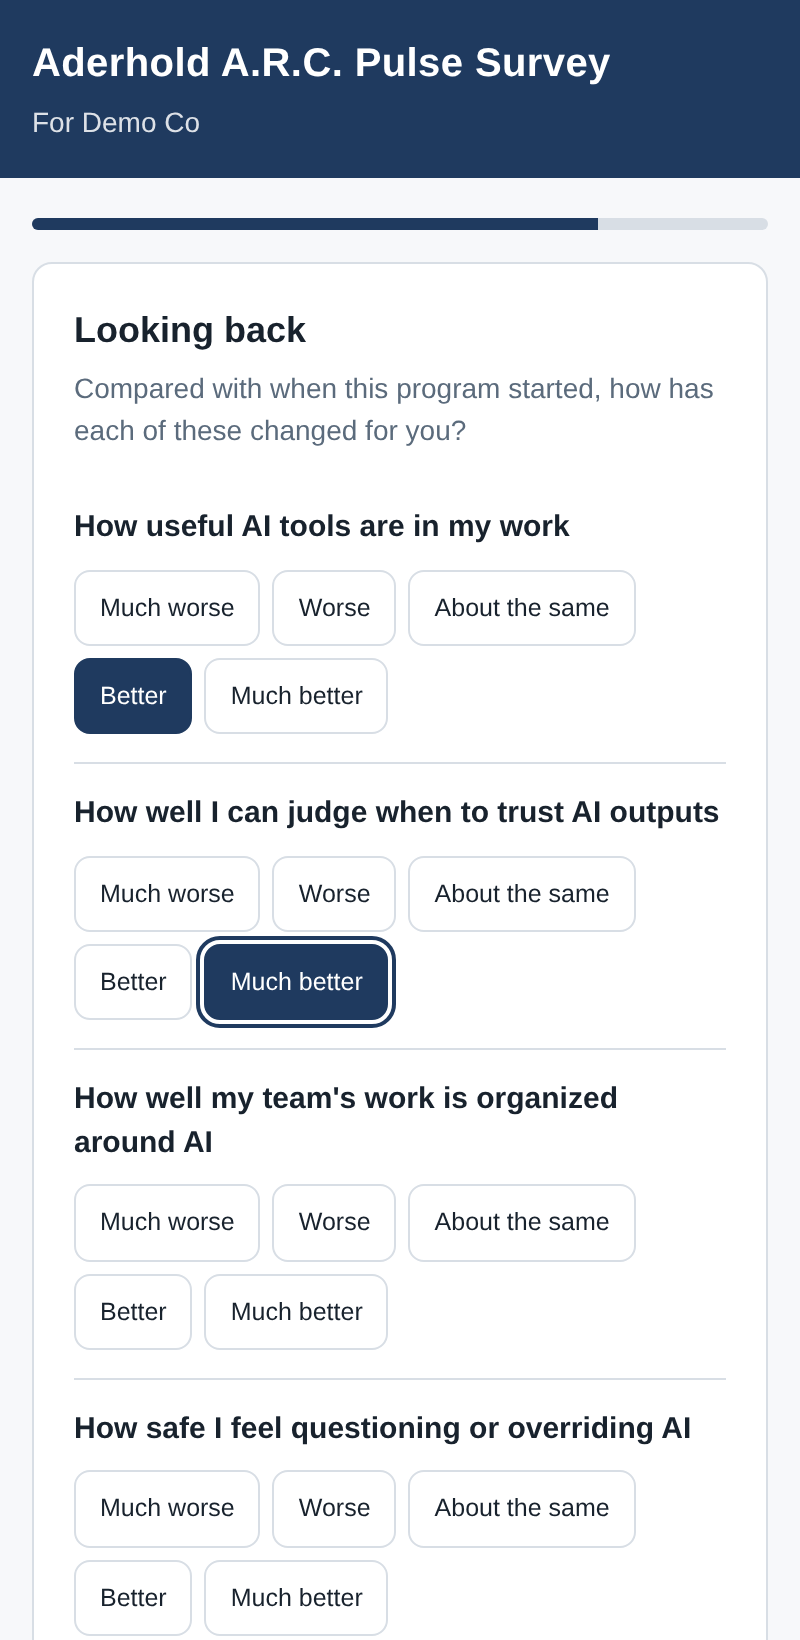
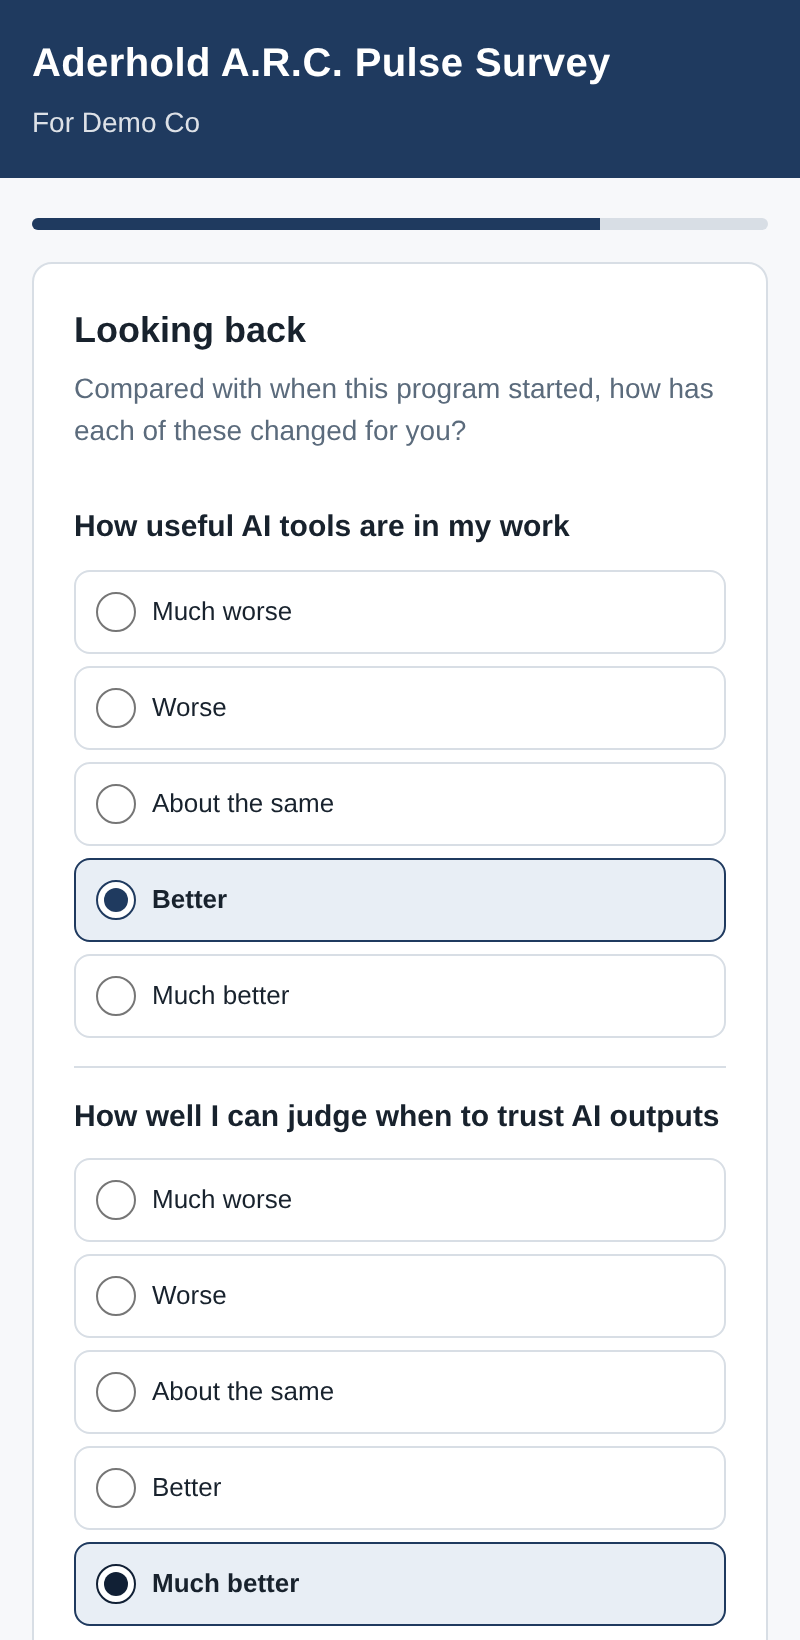
Survey: visible radio buttons for every answer choice
Whole option row is clickable and its text can't be selected, so clicks with slight mouse
movement still register. Refreshed survey screenshots in the manual.

Claude-Session: https://claude.ai/code/session_01UbmHdd71x8GeBcxmCBHNqm

diff --git a/collector/Survey.html b/collector/Survey.html
@@ -20,13 +20,17 @@
   .q { padding:14px 0; border-top:1px solid var(--line); }
   .q:first-of-type { border-top:none; }
   .q p { margin:0 0 10px; font-weight:600; font-size:15px; }
+  /* Answer choices: visible radio buttons. The whole row is clickable and its text can't be selected,
+     so a quick tap or a slightly dragged click still registers. */
   .scale { display:grid; grid-template-columns:repeat(5,1fr); gap:6px; }
-  .opts { display:flex; flex-wrap:wrap; gap:6px; }
-  .scale label, .opts label { border:1px solid var(--line); border-radius:8px; padding:9px 6px; text-align:center; font-size:12.5px; cursor:pointer; background:#fff; }
-  .opts label { padding:9px 12px; }
-  .scale input, .opts input { position:absolute; opacity:0; pointer-events:none; }
-  .scale label:has(input:checked), .opts label:has(input:checked) { background:var(--brand); color:#fff; border-color:var(--brand); }
-  .scale label:focus-within, .opts label:focus-within { outline:2px solid var(--brand); outline-offset:2px; }
+  .opts { display:grid; grid-template-columns:repeat(auto-fit,minmax(150px,1fr)); gap:6px; }
+  .scale label, .opts label { display:flex; align-items:center; gap:8px; border:1px solid var(--line); border-radius:8px;
+    padding:10px; font-size:13px; line-height:1.25; cursor:pointer; background:#fff;
+    user-select:none; -webkit-user-select:none; -webkit-tap-highlight-color:transparent; touch-action:manipulation; }
+  .scale label { flex-direction:column; justify-content:flex-start; text-align:center; gap:6px; }
+  .scale input, .opts input { flex:none; width:20px; height:20px; margin:0; accent-color:var(--brand); cursor:pointer; }
+  .scale label:hover, .opts label:hover { border-color:var(--brand); }
+  .scale label:has(input:checked), .opts label:has(input:checked) { background:var(--brand-soft); border-color:var(--brand); font-weight:600; }
   textarea { width:100%; min-height:90px; border:1px solid var(--line); border-radius:8px; padding:10px; font:inherit; }
   .nav { display:flex; justify-content:space-between; gap:12px; margin-top:8px; }
   button { font:inherit; font-weight:600; border-radius:8px; padding:11px 18px; border:1px solid var(--brand); cursor:pointer; }
@@ -34,7 +38,8 @@
   button.secondary { background:#fff; color:var(--brand); }
   button:disabled { opacity:.5; cursor:default; }
   .check { display:flex; gap:10px; align-items:flex-start; margin:10px 0; font-size:14px; }
-  .check input { margin-top:3px; }
+  .check { cursor:pointer; user-select:none; -webkit-user-select:none; }
+  .check input { margin-top:1px; width:18px; height:18px; flex:none; accent-color:var(--brand); }
   .err { color:var(--err); font-size:14px; min-height:20px; margin-top:8px; }
   .hp { position:absolute; left:-9999px; }
   .pillars { display:grid; grid-template-columns:repeat(2,1fr); gap:10px; }
@@ -43,7 +48,7 @@
   .meter { height:6px; background:var(--line); border-radius:3px; margin-top:6px; }
   .meter div { height:100%; background:var(--brand); border-radius:3px; }
   .small { font-size:12.5px; color:var(--quiet); }
-  @media (max-width:560px) { .scale { grid-template-columns:1fr; } .scale label { text-align:left; } .pillars { grid-template-columns:1fr; } }
+  @media (max-width:560px) { .scale, .opts { grid-template-columns:1fr; } .scale label { flex-direction:row; text-align:left; gap:10px; } .pillars { grid-template-columns:1fr; } }
 </style>
 </head>
 <body>
